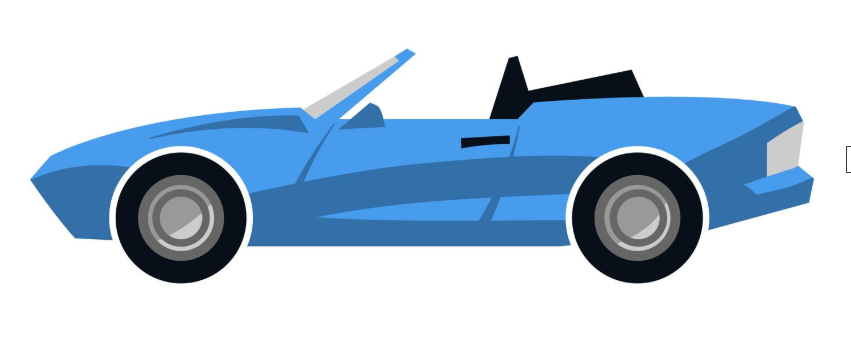
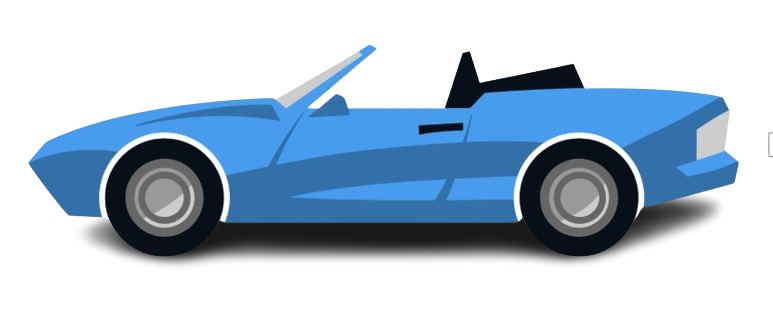
pista con mediadas, tpos de carros

diff --git a/interfaz.c b/interfaz.c
@@ -40,64 +40,92 @@ SDL_Texture* cargarCarro(SDL_Renderer* renderer, const char* path) {
     return texture;
 }
 
-void dibujarEscenario(SDL_Renderer* renderer, SDL_Texture* carTexture) {
-    // Fondo negro
+void dibujarEscenario(SDL_Renderer* renderer, SDL_Texture* carSport, SDL_Texture* carNormal, SDL_Texture* carEmergency, int largoCalle, int cantidadDeportivos, int cantidadNormales, int cantidadEmergencia) {
     SDL_SetRenderDrawColor(renderer, 0, 0, 0, 255);
     SDL_RenderClear(renderer);
 
     int bloqueVerdeWidth = 60;
     int bloqueRojoWidth = 60;
-    int calleWidth = 550;
+    int calleWidth = 600;  // ancho fijo visual de la calle
 
-    // Posiciones
+    // Dibujar bloques
     SDL_Rect bloqueVerdeIzq = {0, 0, bloqueVerdeWidth, WINDOW_HEIGHT};
     SDL_Rect bloqueRojoIzq = {bloqueVerdeWidth, 0, bloqueRojoWidth, WINDOW_HEIGHT};
     SDL_Rect calle = {bloqueVerdeWidth + bloqueRojoWidth, 0, calleWidth, WINDOW_HEIGHT};
     SDL_Rect bloqueRojoDer = {bloqueVerdeWidth + bloqueRojoWidth + calleWidth, 0, bloqueRojoWidth, WINDOW_HEIGHT};
     SDL_Rect bloqueVerdeDer = {bloqueVerdeWidth + bloqueRojoWidth + calleWidth + bloqueRojoWidth, 0, bloqueVerdeWidth, WINDOW_HEIGHT};
 
-    // Bloque verde izquierdo
     SDL_SetRenderDrawColor(renderer, 0, 255, 0, 255);
     SDL_RenderFillRect(renderer, &bloqueVerdeIzq);
+    SDL_RenderFillRect(renderer, &bloqueVerdeDer);
 
-    // Bloque rojo izquierdo
     SDL_SetRenderDrawColor(renderer, 255, 0, 0, 255);
     SDL_RenderFillRect(renderer, &bloqueRojoIzq);
+    SDL_RenderFillRect(renderer, &bloqueRojoDer);
 
-    // Calle blanca
     SDL_SetRenderDrawColor(renderer, 255, 255, 255, 255);
     SDL_RenderFillRect(renderer, &calle);
 
-    // Bloque rojo derecho
-    SDL_SetRenderDrawColor(renderer, 255, 0, 0, 255);
-    SDL_RenderFillRect(renderer, &bloqueRojoDer);
-
-    // Bloque verde derecho
-    SDL_SetRenderDrawColor(renderer, 0, 255, 0, 255);
-    SDL_RenderFillRect(renderer, &bloqueVerdeDer);
-
-    // Línea amarilla horizontal en medio de la calle
+    // Línea amarilla horizontal
     SDL_SetRenderDrawColor(renderer, 255, 255, 0, 255);
-    for (int x = calle.x; x < calle.x + calle.w; x += 40) {
-        SDL_Rect linea = {x, WINDOW_HEIGHT / 2 - 5, 20, 10};
+    int cantidadLineas = largoCalle / 10;
+    if (cantidadLineas < 1) cantidadLineas = 1;
+    int espacioEntreLineas = calle.w / cantidadLineas;
+    int anchoLinea = espacioEntreLineas / 2;
+
+    for (int i = 0; i < cantidadLineas; i++) {
+        int xLinea = calle.x + i * espacioEntreLineas;
+        SDL_Rect linea = {xLinea, WINDOW_HEIGHT / 2 - 5, anchoLinea, 10};
         SDL_RenderFillRect(renderer, &linea);
     }
 
-    // Carritos sobre bloque verde izquierdo
-    SDL_Rect carIzq1 = {10, 50, 40, 30};
-    SDL_Rect carIzq2 = {10, 150, 40, 30};
+    // === DIBUJAR CARROS ===
+    int espaciadoVertical = 50;
+    int offsetY = 50;
+    int posY;
 
-    // Carritos sobre bloque verde derecho
-    SDL_Rect carDer1 = {bloqueVerdeDer.x + 10, 50, 40, 30};
-    SDL_Rect carDer2 = {bloqueVerdeDer.x + 10, 150, 40, 30};
+    // DIBUJAR CARROS IZQUIERDA
+    int cuenta = 0;
+    for (int i = 0; i < cantidadDeportivos; i++) {
+        posY = offsetY + cuenta * espaciadoVertical;
+        SDL_Rect car = {10, posY, 40, 30};
+        SDL_RenderCopyEx(renderer, carSport, NULL, &car, 0, NULL, SDL_FLIP_HORIZONTAL);
+        cuenta++;
+    }
+    for (int i = 0; i < cantidadNormales; i++) {
+        posY = offsetY + cuenta * espaciadoVertical;
+        SDL_Rect car = {10, posY, 40, 30};
+        SDL_RenderCopyEx(renderer, carNormal, NULL, &car, 0, NULL, SDL_FLIP_HORIZONTAL);
+        cuenta++;
+    }
+    for (int i = 0; i < cantidadEmergencia; i++) {
+        posY = offsetY + cuenta * espaciadoVertical;
+        SDL_Rect car = {10, posY, 40, 30};
+        SDL_RenderCopyEx(renderer, carEmergency, NULL, &car, 0, NULL, SDL_FLIP_HORIZONTAL);
+        cuenta++;
+    }
 
-    // Dibujar carritos
-    SDL_RenderCopy(renderer, carTexture, NULL, &carIzq1);
-    SDL_RenderCopy(renderer, carTexture, NULL, &carIzq2);
-    SDL_RenderCopy(renderer, carTexture, NULL, &carDer1);
-    SDL_RenderCopy(renderer, carTexture, NULL, &carDer2);
+    // DIBUJAR CARROS DERECHA
+    cuenta = 0;
+    for (int i = 0; i < cantidadDeportivos; i++) {
+        posY = offsetY + cuenta * espaciadoVertical;
+        SDL_Rect car = {bloqueVerdeDer.x + 10, posY, 40, 30};
+        SDL_RenderCopy(renderer, carSport, NULL, &car);
+        cuenta++;
+    }
+    for (int i = 0; i < cantidadNormales; i++) {
+        posY = offsetY + cuenta * espaciadoVertical;
+        SDL_Rect car = {bloqueVerdeDer.x + 10, posY, 40, 30};
+        SDL_RenderCopy(renderer, carNormal, NULL, &car);
+        cuenta++;
+    }
+    for (int i = 0; i < cantidadEmergencia; i++) {
+        posY = offsetY + cuenta * espaciadoVertical;
+        SDL_Rect car = {bloqueVerdeDer.x + 10, posY, 40, 30};
+        SDL_RenderCopy(renderer, carEmergency, NULL, &car);
+        cuenta++;
+    }
 
-    // Mostrar en pantalla
     SDL_RenderPresent(renderer);
 }
 
@@ -105,10 +133,11 @@ void dibujarEscenario(SDL_Renderer* renderer, SDL_Texture* carTexture) {
 
 
 
-void cerrarInterfaz(SDL_Window* window, SDL_Renderer* renderer, SDL_Texture* carTexture) {
-    SDL_DestroyTexture(carTexture);
-    SDL_DestroyRenderer(renderer);
-    SDL_DestroyWindow(window);
-    IMG_Quit();
+void cerrarInterfaz(SDL_Window* window, SDL_Renderer* renderer, SDL_Texture* carSport, SDL_Texture* carNormal, SDL_Texture* carEmergency) {
+    if (carSport) SDL_DestroyTexture(carSport);
+    if (carNormal) SDL_DestroyTexture(carNormal);
+    if (carEmergency) SDL_DestroyTexture(carEmergency);
+    if (renderer) SDL_DestroyRenderer(renderer);
+    if (window) SDL_DestroyWindow(window);
     SDL_Quit();
 }

diff --git a/main.c b/main.c
@@ -36,14 +36,25 @@ int main(int argc, char* argv[]) {
     printf("Ingrese el tiempo del letrero (segundos): ");
     scanf("%d", &tiempoLetrero);
 
-    printf("Ingrese la cantidad inicial de carros deportivos: ");
-    scanf("%d", &cantidadDeportivos);
+    // ======= VALIDACION DE SUMA DE CARROS =======
+    do {
+        printf("Ingrese la cantidad inicial de carros deportivos: ");
+        scanf("%d", &cantidadDeportivos);
 
-    printf("Ingrese la cantidad inicial de carros normales: ");
-    scanf("%d", &cantidadNormales);
+        printf("Ingrese la cantidad inicial de carros normales: ");
+        scanf("%d", &cantidadNormales);
 
-    printf("Ingrese la cantidad inicial de carros de emergencia: ");
-    scanf("%d", &cantidadEmergencia);
+        printf("Ingrese la cantidad inicial de carros de emergencia: ");
+        scanf("%d", &cantidadEmergencia);
+
+        if (cantidadDeportivos < 0 || cantidadNormales < 0 || cantidadEmergencia < 0) {
+            printf("ERROR: Ninguna cantidad puede ser negativa.\n");
+        } else if (cantidadDeportivos + cantidadNormales + cantidadEmergencia != cantidadCarros) {
+            printf("ERROR: La suma de deportivos, normales y emergencia debe ser igual a la cantidad total de carros (%d).\n", cantidadCarros);
+        }
+
+    } while (cantidadDeportivos < 0 || cantidadNormales < 0 || cantidadEmergencia < 0 ||
+             cantidadDeportivos + cantidadNormales + cantidadEmergencia != cantidadCarros);
 
     // ======= GUARDAR DATOS EN ARCHIVO =======
     FILE* archivo = fopen("configuracion.txt", "w");
@@ -72,9 +83,12 @@ int main(int argc, char* argv[]) {
         return 1;
     }
 
-    SDL_Texture* carTexture = cargarCarro(renderer, "images/sport.png");
-    if (!carTexture) {
-        cerrarInterfaz(window, renderer, NULL);
+    SDL_Texture* carSport = cargarCarro(renderer, "images/sport.png");
+    SDL_Texture* carNormal = cargarCarro(renderer, "images/normal.png");
+    SDL_Texture* carEmergency = cargarCarro(renderer, "images/emergency.png");
+
+    if (!carSport || !carNormal || !carEmergency) {
+        cerrarInterfaz(window, renderer, carSport, carNormal, carEmergency);
         return 1;
     }
 
@@ -88,11 +102,11 @@ int main(int argc, char* argv[]) {
             }
         }
 
-        dibujarEscenario(renderer, carTexture);
+        dibujarEscenario(renderer, carSport, carNormal, carEmergency, largoCalle, cantidadDeportivos, cantidadNormales, cantidadEmergencia);
         SDL_Delay(16);
     }
 
-    cerrarInterfaz(window, renderer, carTexture);
+    cerrarInterfaz(window, renderer, carSport, carNormal, carEmergency);
 
     return 0;
 }

diff --git a/interfaz.h b/interfaz.h
@@ -5,13 +5,13 @@
 #include <SDL2/SDL_image.h>
 
 // Dimensiones ventana
-#define WINDOW_WIDTH 800
+#define WINDOW_WIDTH 900
 #define WINDOW_HEIGHT 600
 
 // Funciones
 int iniciarInterfaz(SDL_Window** window, SDL_Renderer** renderer);
 SDL_Texture* cargarCarro(SDL_Renderer* renderer, const char* path);
-void dibujarEscenario(SDL_Renderer* renderer, SDL_Texture* carTexture);
-void cerrarInterfaz(SDL_Window* window, SDL_Renderer* renderer, SDL_Texture* carTexture);
+void dibujarEscenario(SDL_Renderer* renderer, SDL_Texture* carSport, SDL_Texture* carNormal, SDL_Texture* carEmergency, int largoCalle, int cantidadDeportivos, int cantidadNormales, int cantidadEmergencia);
+void cerrarInterfaz(SDL_Window* window, SDL_Renderer* renderer, SDL_Texture* carSport, SDL_Texture* carNormal, SDL_Texture* carEmergency);
 
 #endif
